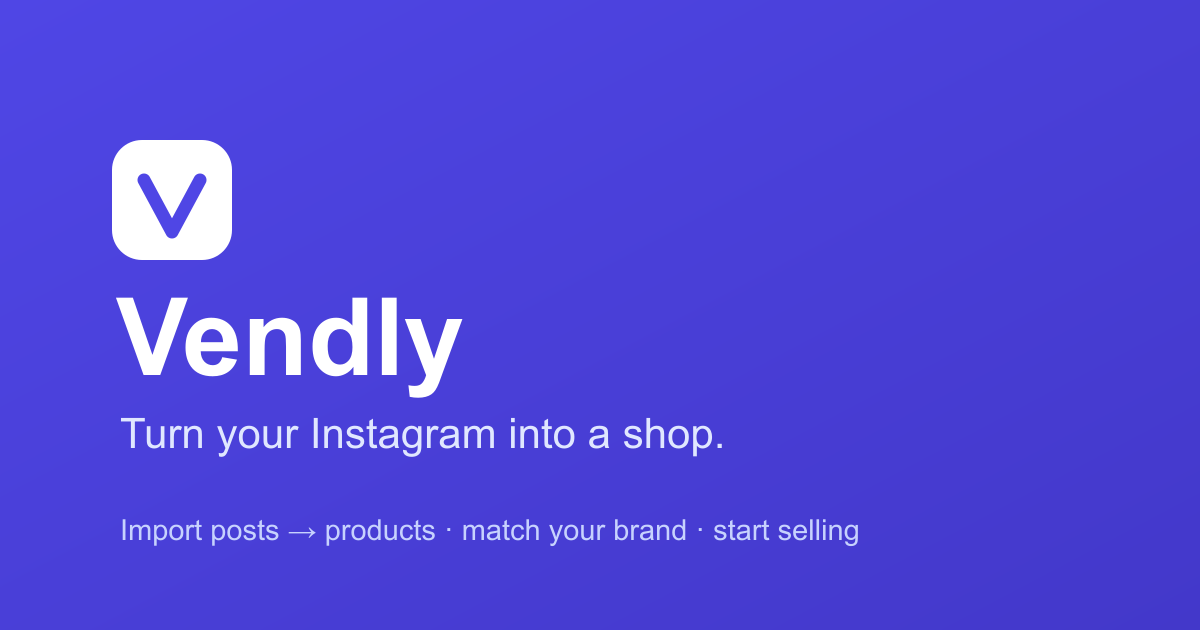
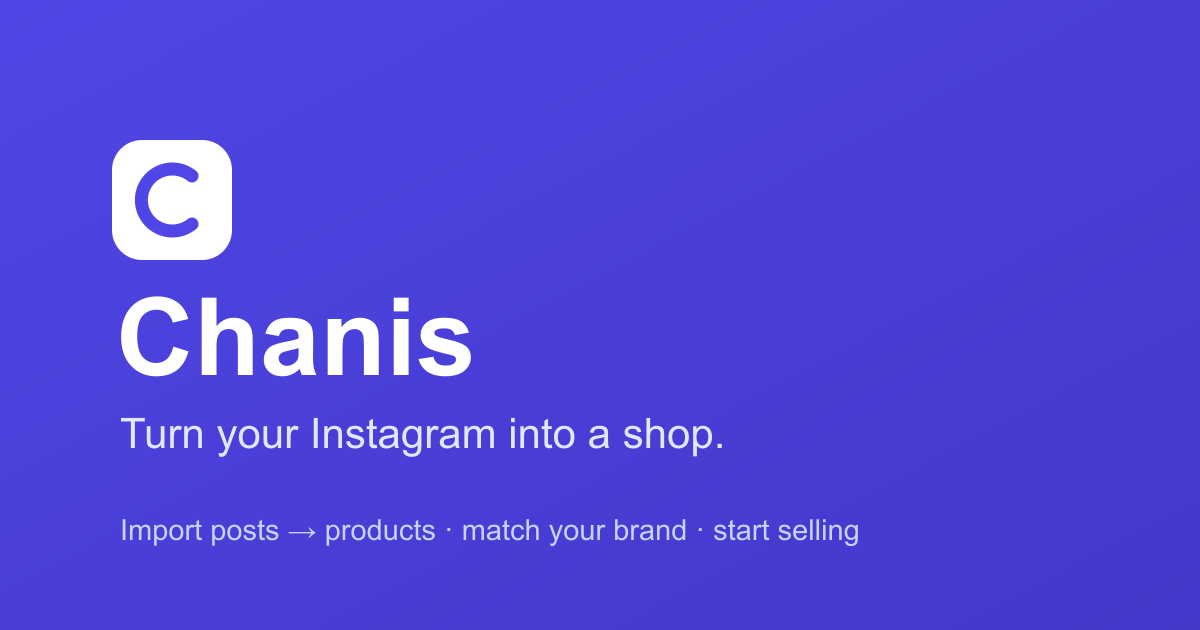
feat: rebrand application from Insteshop to Chanis

Changed region(s): [[0.0925, 0.4524, 0.4008, 0.6333], [0.0925, 0.2413, 0.185, 0.3921]]

diff --git a/nuxt.config.ts b/nuxt.config.ts
@@ -63,7 +63,7 @@ export default defineNuxtConfig({
   app: {
     head: {
       htmlAttrs: { lang: 'en' },
-      title: 'Vendly',
+      title: 'Chanis',
       link: [
         { rel: 'icon', type: 'image/svg+xml', href: '/favicon.svg' },
         { rel: 'icon', sizes: '32x32', href: '/favicon.ico' },
@@ -97,7 +97,7 @@ export default defineNuxtConfig({
     // We resolve auth/redirects ourselves (admin host only); don't let the module redirect.
     redirect: false,
     types: '~~/shared/types/database.types.ts',
-    // H8: seller/admin cookie is HOST-scoped to app.* — never Domain=.insteshop.app
+    // H8: seller/admin cookie is HOST-scoped to app.* — never Domain=.chanis.app
     cookieName: 'sb',
     cookieOptions: {
       sameSite: 'lax',
@@ -125,8 +125,8 @@ export default defineNuxtConfig({
     public: {
       supabaseUrl: '',
       // overridden in dev by NUXT_PUBLIC_APP_BASE_DOMAIN=lvh.me:3000
-      appBaseDomain: 'insteshop.app',
-      siteUrl: 'https://insteshop.app',
+      appBaseDomain: 'chanis.app',
+      siteUrl: 'https://chanis.app',
       stripePublishableKey: '', // pk_… — the platform key (Connect destination charges)
     },
   },

diff --git a/layers/base/app/components/BrandLogo.vue b/layers/base/app/components/BrandLogo.vue
@@ -1,5 +1,5 @@
 <script setup lang="ts">
-// The Vendly logo: an indigo rounded-square "V" mark + the wordmark. The mark uses
+// The Chanis logo: an indigo rounded-square "C" mark + the wordmark. The mark uses
 // `text-primary` so it tracks the app's primary colour; the wordmark inherits the
 // app font (Poppins). Auto-imported app-wide from the base layer.
 import { BRAND } from '~~/shared/brand'
@@ -11,8 +11,8 @@ withDefaults(defineProps<{ wordmark?: boolean }>(), { wordmark: true })
     <svg viewBox="0 0 24 24" class="size-7 shrink-0 text-primary" aria-hidden="true">
       <rect x="1" y="1" width="22" height="22" rx="6.5" fill="currentColor" />
       <path
-        d="M6.4 8 L12 16.6 L17.6 8" fill="none" stroke="#fff"
-        stroke-width="2.4" stroke-linecap="round" stroke-linejoin="round"
+        d="M16 7.2 A6.2 6.2 0 1 0 16 16.8" fill="none" stroke="#fff"
+        stroke-width="2.5" stroke-linecap="round"
       />
     </svg>
     <span v-if="wordmark" class="text-lg font-bold tracking-tight text-highlighted">{{ BRAND.name }}</span>

diff --git a/layers/storefront/app/plugins/cart-persist.client.ts b/layers/storefront/app/plugins/cart-persist.client.ts
@@ -1,9 +1,9 @@
-// Persist the cart to localStorage, scoped per store subdomain (insteshop:cart:<sub>).
+// Persist the cart to localStorage, scoped per store subdomain (chanis:cart:<sub>).
 // Client-only so SSR never touches it (the cart is never authoritative).
 export default defineNuxtPlugin(() => {
   const cart = useCart()
   const { store } = useTenant()
-  const key = `insteshop:cart:${store.value?.subdomain ?? 'default'}`
+  const key = `chanis:cart:${store.value?.subdomain ?? 'default'}`
 
   try {
     const raw = localStorage.getItem(key)

diff --git a/shared/brand.ts b/shared/brand.ts
@@ -1,11 +1,11 @@
 // Single source of truth for the product brand. Rename here to rebrand everywhere
 // (logo wordmark, page chrome, SEO, transactional email).
 export const BRAND = {
-  name: 'Vendly',
+  name: 'Chanis',
   tagline: 'Turn your Instagram into a shop.',
   // Long-form description used for SEO / social cards.
   description:
-    'Vendly turns your Instagram into a fully hosted online store. Connect your account, auto-import your posts as products, match your brand, and start selling — no code, ready in minutes.',
+    'Chanis turns your Instagram into a fully hosted online store. Connect your account, auto-import your posts as products, match your brand, and start selling — no code, ready in minutes.',
 } as const
 
 // Placeholders for the legal/compliance pages. FILL THESE IN before publishing, and

diff --git a/layers/admin/app/pages/onboarding.vue b/layers/admin/app/pages/onboarding.vue
@@ -232,7 +232,7 @@ async function createStore() {
           </UFormField>
           <UFormField label="Subdomain" name="subdomain">
             <UInput v-model="subdomain" type="text" required placeholder="acme" class="w-full" :ui="{ base: 'lowercase' }">
-              <template #trailing><span class="text-sm text-muted">.insteshop.app</span></template>
+              <template #trailing><span class="text-sm text-muted">.chanis.app</span></template>
             </UInput>
             <template v-if="availability" #help>
               <span v-if="availability.available" class="text-success inline-flex items-center gap-1">

diff --git a/layers/admin/nuxt.config.ts b/layers/admin/nuxt.config.ts
@@ -1,2 +1,2 @@
-// Admin layer: seller dashboard on app.insteshop.app (auth, products, orders, IG, theme).
+// Admin layer: seller dashboard on app.chanis.app (auth, products, orders, IG, theme).
 export default defineNuxtConfig({})

diff --git a/layers/marketing/nuxt.config.ts b/layers/marketing/nuxt.config.ts
@@ -1,2 +1,2 @@
-// Marketing layer: apex (insteshop.app) landing / signup.
+// Marketing layer: apex (chanis.app) landing / signup.
 export default defineNuxtConfig({})

diff --git a/layers/storefront/app/components/StorefrontHome.vue b/layers/storefront/app/components/StorefrontHome.vue
@@ -134,7 +134,7 @@ const featured = computed(() =>
           <StorefrontBrand />
           <p class="mt-1.5 text-sm text-muted">@{{ props.store?.subdomain }}</p>
         </div>
-        <p class="text-xs text-muted">Powered by Vendly</p>
+        <p class="text-xs text-muted">Powered by Chanis</p>
       </UContainer>
     </footer>
   </div>

diff --git a/layers/storefront/nuxt.config.ts b/layers/storefront/nuxt.config.ts
@@ -1,2 +1,2 @@
-// Storefront layer: public customer-facing store on <store>.insteshop.app.
+// Storefront layer: public customer-facing store on <store>.chanis.app.
 export default defineNuxtConfig({})

diff --git a/server/api/storefront/og-image.get.ts b/server/api/storefront/og-image.get.ts
@@ -50,7 +50,7 @@ export default defineEventHandler(async (event) => {
       <text x="96" y="430" font-family="'DejaVu Sans','Helvetica Neue',Arial,sans-serif" font-size="${fontSize}" font-weight="700" fill="${p.fg}">${escapeXml(name)}</text>
       <text x="96" y="492" font-family="'DejaVu Sans','Helvetica Neue',Arial,sans-serif" font-size="32" fill="${p.muted}">${escapeXml(host)}</text>
       <circle cx="104" cy="552" r="7" fill="${p.primary}"/>
-      <text x="122" y="561" font-family="'DejaVu Sans','Helvetica Neue',Arial,sans-serif" font-size="26" fill="${p.muted}">Powered by Insteshop</text>
+      <text x="122" y="561" font-family="'DejaVu Sans','Helvetica Neue',Arial,sans-serif" font-size="26" fill="${p.muted}">Powered by Chanis</text>
     </svg>`
 
     const composites: sharp.OverlayOptions[] = []

diff --git a/server/utils/email.ts b/server/utils/email.ts
@@ -34,7 +34,7 @@ export async function notifyNewOrder(opts: {
           .join('')}</ul>`
       : ''
     await resend.emails.send({
-      from: cfg.resendFrom || 'Vendly <[email redacted]>',
+      from: cfg.resendFrom || 'Chanis <[email redacted]>',
       to: opts.to,
       subject: `New order ${opts.orderNumber} — ${opts.storeName}`,
       html: `<p>You have a new order <strong>${escapeHtml(opts.orderNumber)}</strong> totalling ${total} ${escapeHtml(opts.currency)}.</p>${answersHtml}`,